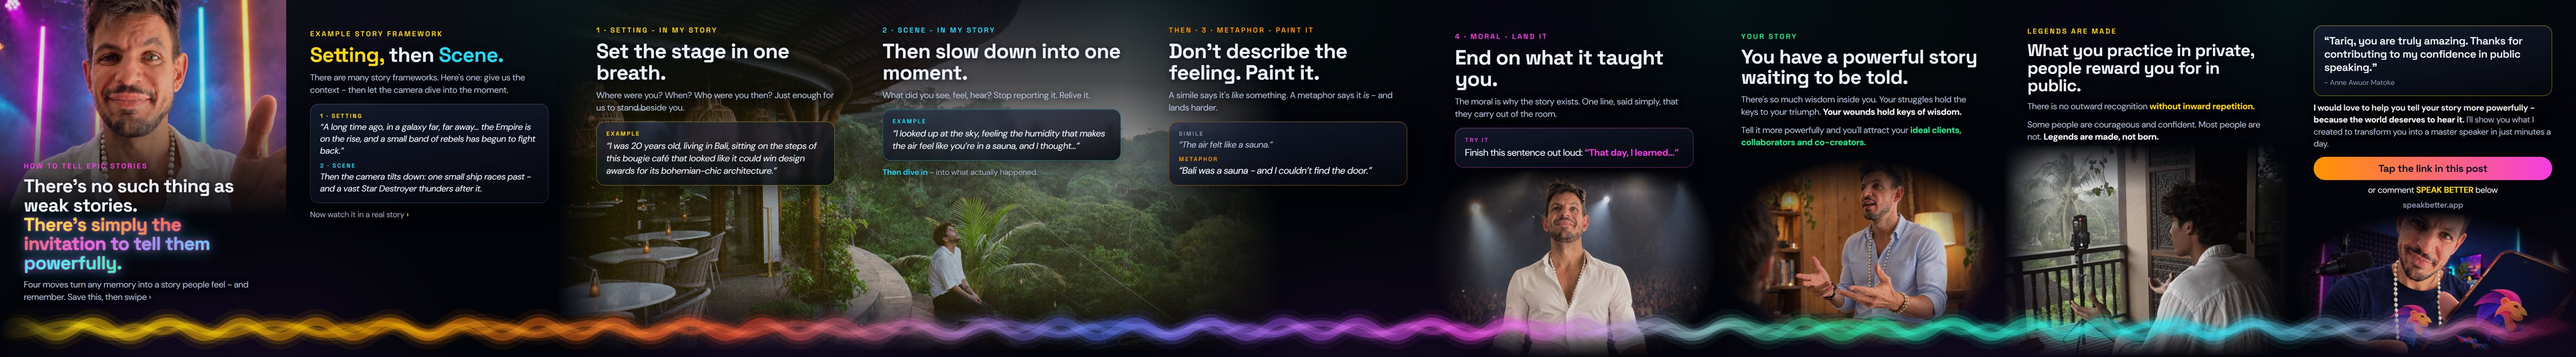
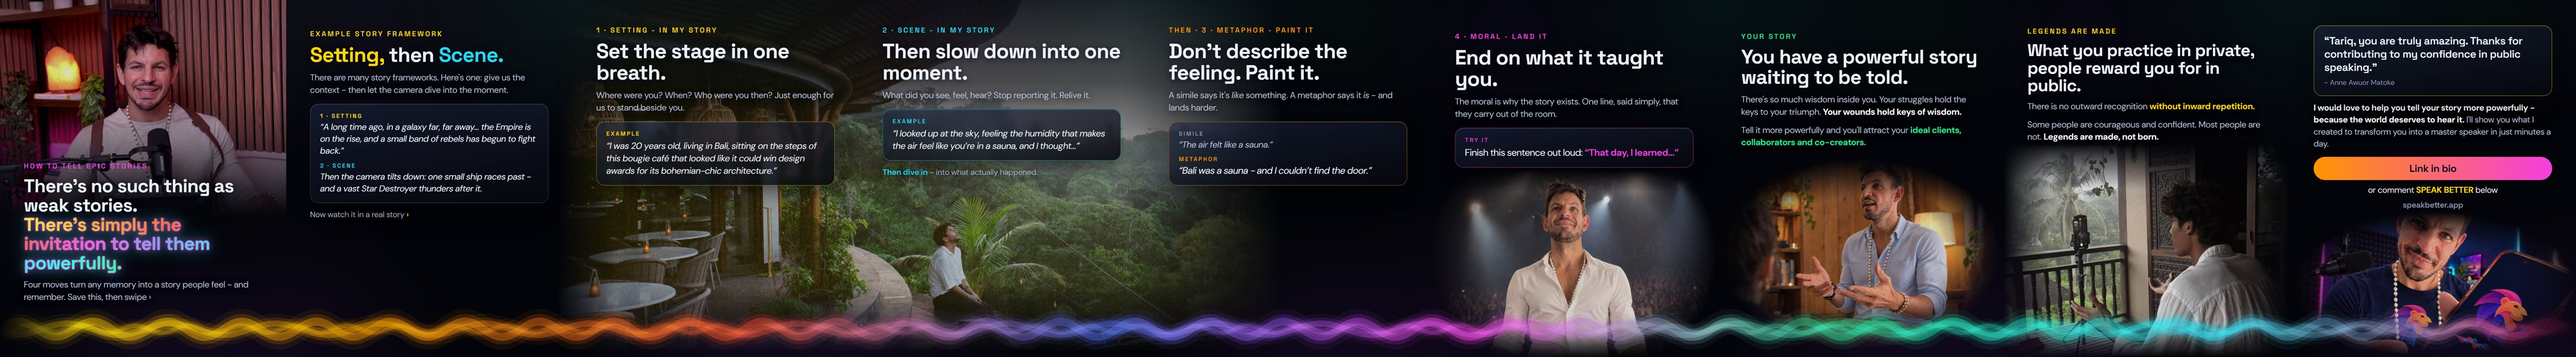
Phone deck viewer: Post 4 black - podcast-studio cover frame, Link in bio

Changed region(s): [[0.0, 0.0, 0.1243, 0.56], [0.901, 0.4667, 0.9632, 0.4978]]

diff --git a/public/d-BlBAiR0ZRDrG/post4-black.html b/public/d-BlBAiR0ZRDrG/post4-black.html
@@ -5,7 +5,7 @@ main{max-width:540px;margin:0 auto;padding:16px 16px 48px}h1{font-size:18px;marg
 .dots{display:flex;justify-content:center;gap:6px;margin:10px 0 18px}.dots i{width:6px;height:6px;border-radius:50%;background:#36406a}.dots i.on{background:#22D9F5}
 .pano{overflow-x:auto;border-radius:8px}.pano img{height:260px;display:block}h2{font-size:14px;margin:22px 0 8px;color:#B9C0D8}</style></head><body><main>
 <a href="index.html">‹ All</a><h1>Post 4 · How to Tell Epic Stories - black</h1><small>9 slides · swipe like Instagram</small><small style="display:block;margin:6px 0">Version: <a href="post4.html">Glassy gradient</a> · <a href="post4-black.html">Black</a></small>
-<div class="car" id="c"><img src="post4-black/01.jpg?v=4" alt="Slide 1"><img src="post4-black/02.jpg?v=4" alt="Slide 2"><img src="post4-black/03.jpg?v=4" alt="Slide 3"><img src="post4-black/04.jpg?v=4" alt="Slide 4"><img src="post4-black/05.jpg?v=4" alt="Slide 5"><img src="post4-black/06.jpg?v=4" alt="Slide 6"><img src="post4-black/07.jpg?v=4" alt="Slide 7"><img src="post4-black/08.jpg?v=4" alt="Slide 8"><img src="post4-black/09.jpg?v=4" alt="Slide 9"></div><div class="dots" id="d"><i></i><i></i><i></i><i></i><i></i><i></i><i></i><i></i><i></i></div>
-<h2>The whole panorama (scroll sideways)</h2><div class="pano"><img src="post4-black/panorama.jpg?v=4" alt="Full panorama"></div>
+<div class="car" id="c"><img src="post4-black/01.jpg?v=5" alt="Slide 1"><img src="post4-black/02.jpg?v=5" alt="Slide 2"><img src="post4-black/03.jpg?v=5" alt="Slide 3"><img src="post4-black/04.jpg?v=5" alt="Slide 4"><img src="post4-black/05.jpg?v=5" alt="Slide 5"><img src="post4-black/06.jpg?v=5" alt="Slide 6"><img src="post4-black/07.jpg?v=5" alt="Slide 7"><img src="post4-black/08.jpg?v=5" alt="Slide 8"><img src="post4-black/09.jpg?v=5" alt="Slide 9"></div><div class="dots" id="d"><i></i><i></i><i></i><i></i><i></i><i></i><i></i><i></i><i></i></div>
+<h2>The whole panorama (scroll sideways)</h2><div class="pano"><img src="post4-black/panorama.jpg?v=5" alt="Full panorama"></div>
 <small style="display:block;margin-top:18px">Private link - please don't share.</small></main>
 <script>const c=document.getElementById("c"),d=[...document.querySelectorAll("#d i")];const u=()=>{const i=Math.round(c.scrollLeft/c.clientWidth);d.forEach((x,k)=>x.classList.toggle("on",k===i))};c.addEventListener("scroll",u,{passive:true});u();</script></body></html>
